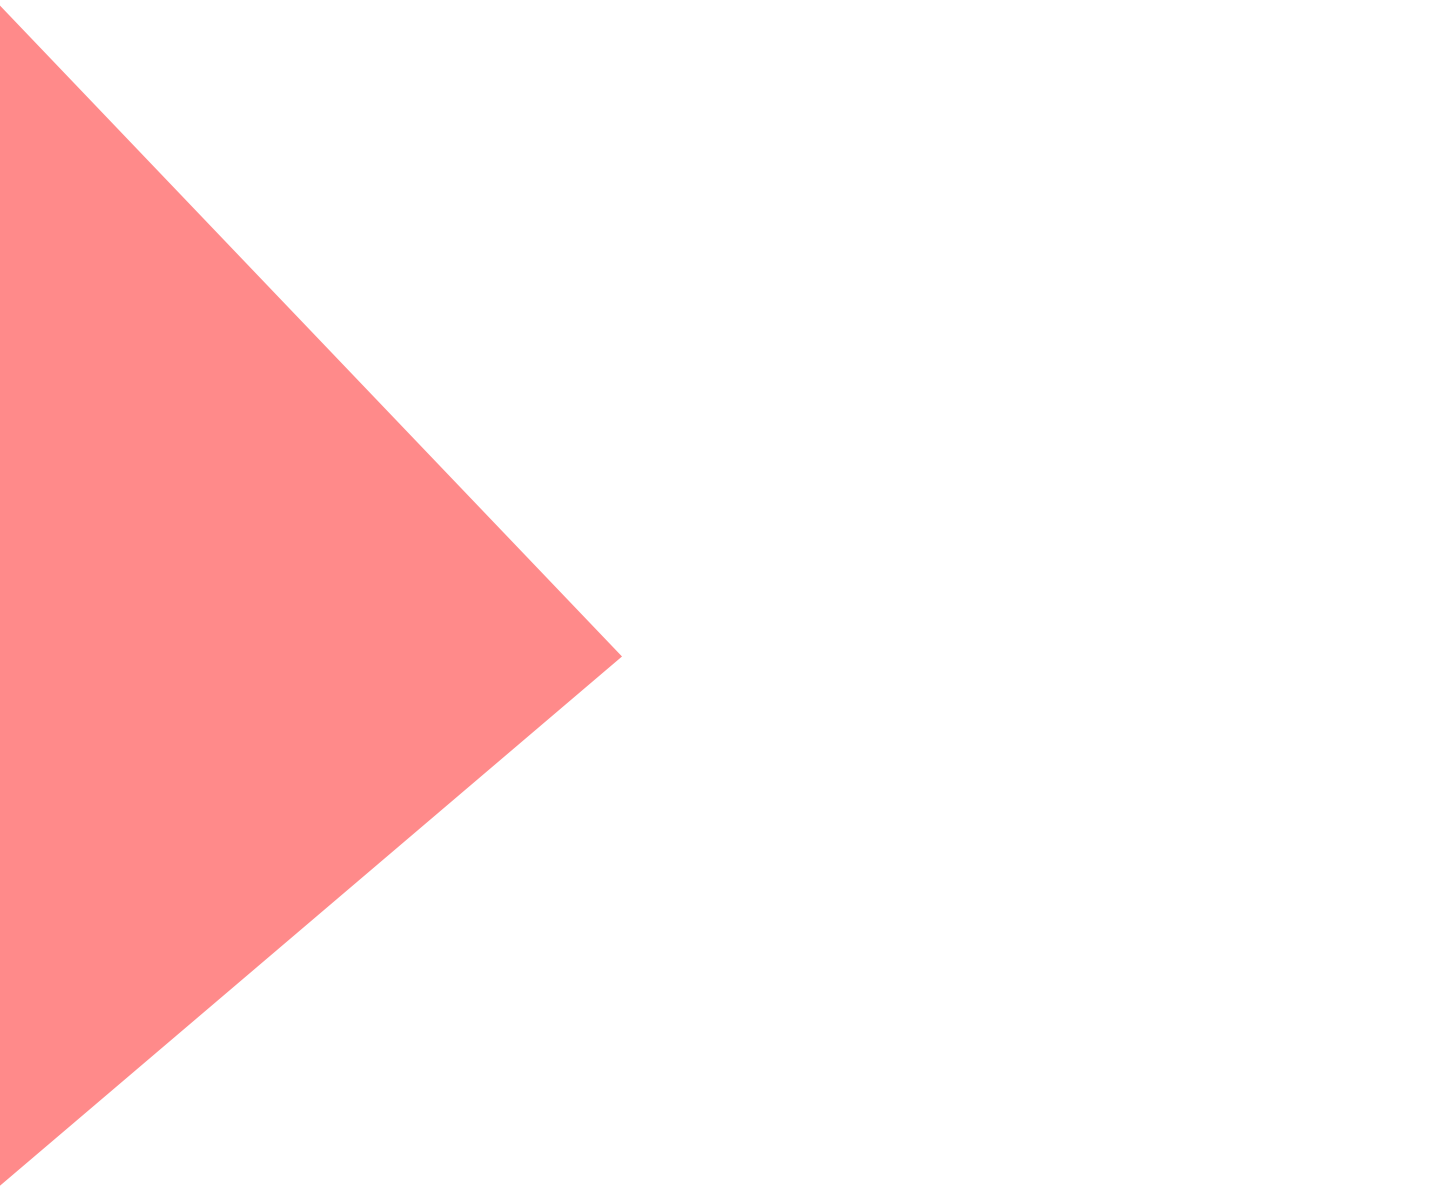
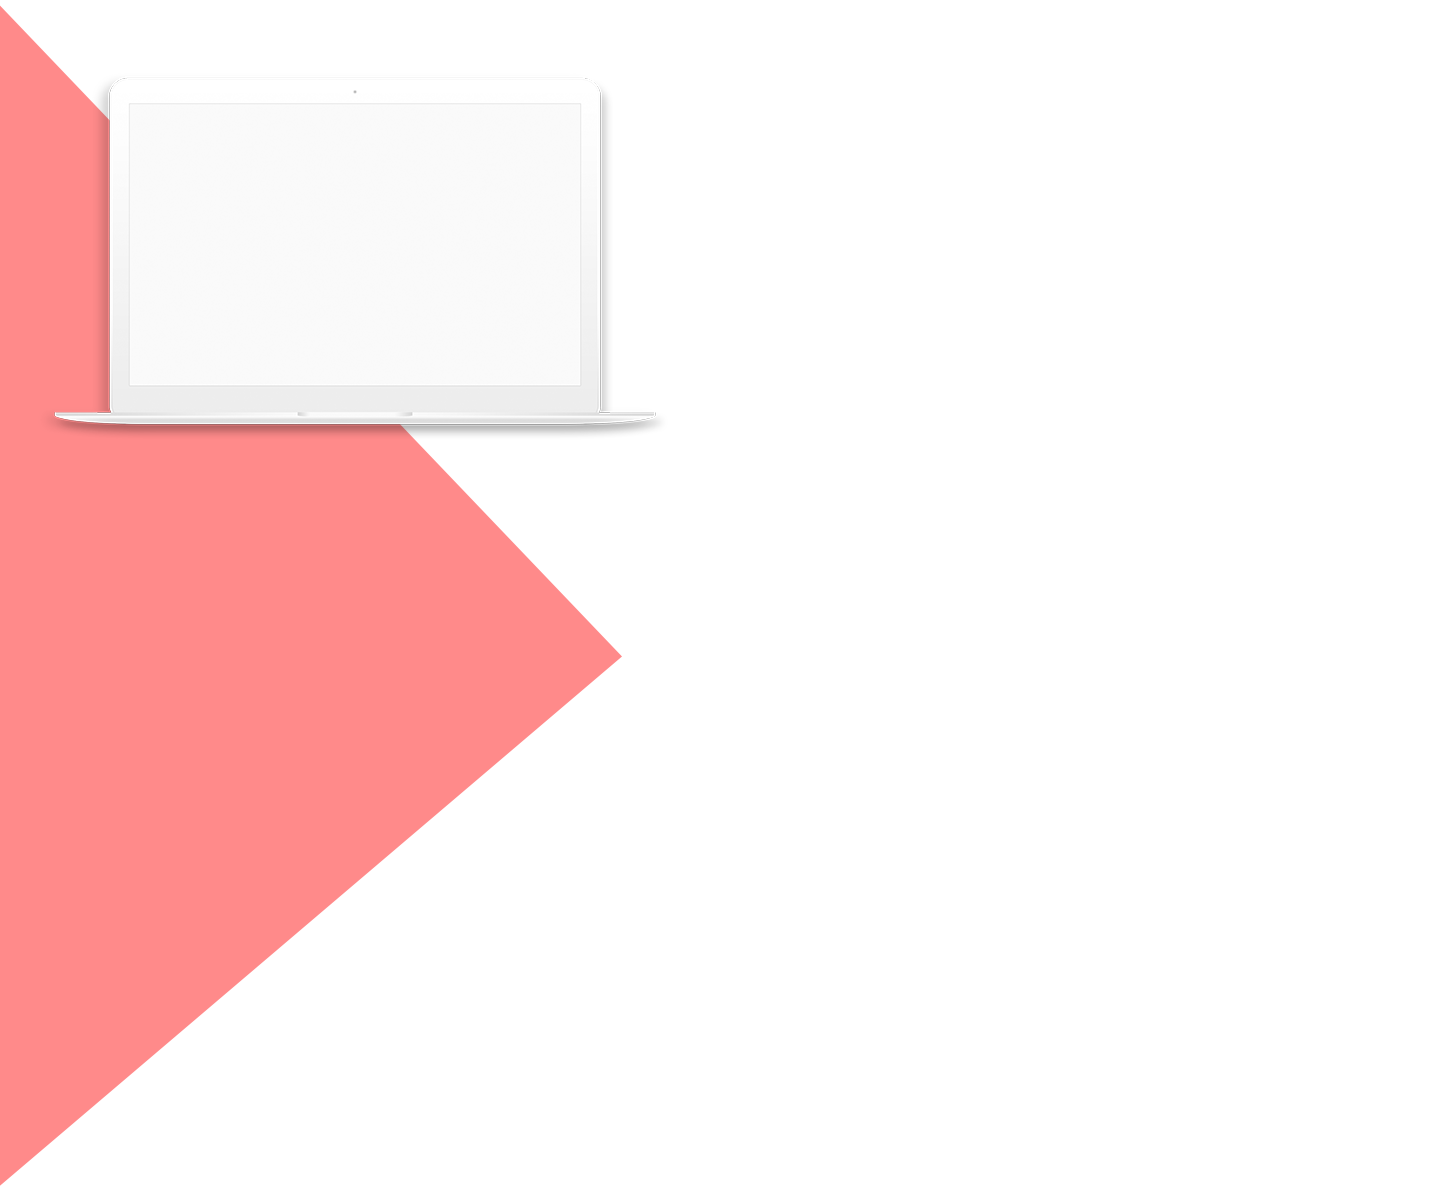
arrow

Changed region(s): [[0.0312, 0.0926, 0.4688, 0.3703]]

diff --git a/проект/index.html b/проект/index.html
@@ -150,7 +150,7 @@
             <div class="block8">
                     <h2 class="block8-title">New features</h2>
                     <div class="block8-text1">Over 1000 designers are using....</div>
-                    <div class="block8-text2">30 days free trial for all.</div>
+                    <div class="block8-text2"><img src="img/arrow.png" class="arrow">30 days free trial for all.</div>
 
                 <form class="form">
                     <input type="text" placeholder="NAME" class="name">
@@ -170,44 +170,46 @@
 
     <footer id="footer">
         <div class="wrapper">
+        <div class="footer-content">
             <div class="footer-columns">
-        <div class="footer-column2">
-            <div class="support">StartEx</div>
-            <div class="footer-text1">Aenean lacinia bibendum nulla sed <br> consectetur. Aenean eu leo quam. </div>
-            <a href="tel: +380995245342" class="footer-phone">Phone us +380995245342</a>
-            <address class="footer-address">Address: 34 Brokel Rd. NY</address>
-        </div>
+                <div class="footer-column2">
+                    <div class="support">StartEx</div>
+                    <div class="footer-text1">Aenean lacinia bibendum nulla sed <br> consectetur. Aenean eu leo quam. </div>
+                    <a href="tel: +380995245342" class="footer-phone">Phone us +380995245342</a>
+                    <address class="footer-address">Address: 34 Brokel Rd. NY</address>
+                </div>
 
-        <div class="footer-column2">
-            <div class="support">Support</div>
-            <div class="footer-column-points">Help center</div>
-            <div class="footer-column-points">Get Started</div>
-            <div class="footer-column-points">Contact us</div>
-        </div>
+                <div class="footer-column2">
+                <div class="support">Support</div>
+                <div class="footer-column-points">Help center</div>
+                <div class="footer-column-points">Get Started</div>
+                <div class="footer-column-points">Contact us</div>
+                </div>
 
-        <div class="footer-column3">
-            <div class="support">About us</div>
-            <div class="footer-column-points">About us</div>
-            <div class="footer-column-points">Terms of use</div>
-            <div class="footer-column-points">Privat policy</div>
-        </div>
+                <div class="footer-column3">
+                <div class="support">About us</div>
+                <div class="footer-column-points">About us</div>
+                <div class="footer-column-points">Terms of use</div>
+                <div class="footer-column-points">Privat policy</div>
+                </div>
 
-        <div class="footer-column4">
-            <div class="support one">Get newsletter</div>
-            <form class="footer-form"> 
-                <input type="email" placeholder="EMAIL" class="footer-email">
-                <button class="footer-button"><i class="far fa-paper-plane fa-2x"></i></button>
-            </form>
+                <div class="footer-column4">
+                <div class="support one">Get newsletter</div>
+                <form class="footer-form"> 
+                    <input type="email" placeholder="EMAIL" class="footer-email">
+                    <button class="footer-button"><i class="far fa-paper-plane fa-2x"></i></button>
+                </form>
             
-            <div class="foot-log">
-            <div class="footer-logos"><i class="fas fa-basketball-ball fa-2x"></i></div>
-            <div class="footer-logos"><i class="fab fa-facebook-f fa-2x"></i></div>
-            <div class="footer-logos"> <i class="fab fa-google-plus-g fa-2x"></i> </div>
-            <div class="footer-logos"><i class="fab fa-twitter fa-2x"></i></div>
+                <div class="foot-log">
+                    <div class="footer-logos"><i class="fas fa-basketball-ball fa-2x"></i></div>
+                    <div class="footer-logos"><i class="fab fa-facebook-f fa-2x"></i></div>
+                    <div class="footer-logos"> <i class="fab fa-google-plus-g fa-2x"></i> </div>
+                    <div class="footer-logos"><i class="fab fa-twitter fa-2x"></i></div>
+                </div>
+            </div>
+        
             </div>
         </div>
-        
-    </div>
 
     </footer>
     

diff --git a/проект/style.css b/проект/style.css
@@ -299,8 +299,8 @@
     color: #282828;
 }
 
-#footer .wrapper{
-    width: 1440px;
+#footer .footer-content{
+    width: 100%;
     height: 310px;;
     background-image: url(img/Безимени-11.png);
 }
@@ -408,6 +408,7 @@
     .block8 .block8-description{padding: 10px}
     .block8 .block8-text2{padding-bottom: 5px;}
     #footer .footer-columns {padding: 10px 0 10px 10px; display: flex; flex-direction: column;}
+    .block8 .block8-text2 .arrow{display: none;}
 }
 
 @media (min-width: 376px) and (max-width:465px){
@@ -437,6 +438,7 @@
     .block8 .block8-description{padding: 15px}
     .block8 .block8-text2{padding-bottom: 15px;}
     #footer .footer-columns {display: flex; flex-direction: column; padding: 30px 0 0 100px;}
+    .block8 .block8-text2 .arrow{display: none;}
 }
 
 @media (min-width: 466px) and (max-width: 560px){
@@ -465,6 +467,7 @@
     #footer .footer-columns {display: flex; flex-direction: column; padding: 30px 0 0 30px;}
     #footer .foot-log{display: flex; flex-direction: row; justify-content: flex-start;}
     .footer-logos{padding-right: 15px;}
+    .block8 .block8-text2 .arrow{display: none;}
 }
 
 @media (min-width: 561px) and (max-width:730px){
@@ -494,6 +497,7 @@
     #footer .footer-columns {display: flex; flex-direction: column; padding: 30px 0 0 30px;}
     #footer .foot-log{display: flex; flex-direction: row; justify-content: flex-start;}
     .footer-logos{padding-right: 15px;}
+    .block8 .block8-text2 .arrow{display: none;}
 }
 
 @media (min-width: 731px) and (max-width:1048px){
@@ -522,6 +526,7 @@
     #footer .footer-columns {display: flex; flex-direction: column; padding: 30px 0 0 30px;}
     #footer .foot-log{display: flex; flex-direction: row; justify-content: flex-start;}
     .footer-logos{padding-right: 15px;}
+    .block8 .block8-text2 .arrow{display: none;}
 }
 
 @media (min-width: 1049px) and (max-width: 1400px){
@@ -531,5 +536,6 @@
     .block8 .block8-text2{padding: 0;}
     #footer .footer-columns {display: flex; flex-direction: row; justify-content: flex-start; padding: 30px 0 0 30px;}
     #footer ,.footer-column2, .footer-column3{ padding-right: 20px;}
+    .block8 .block8-text2 .arrow{display: none;}
 
 }
